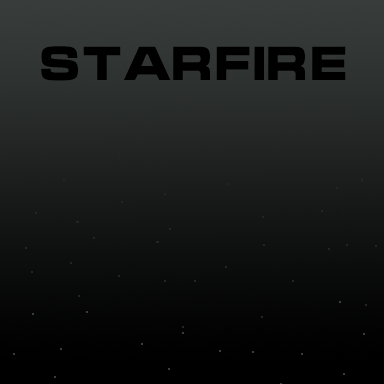
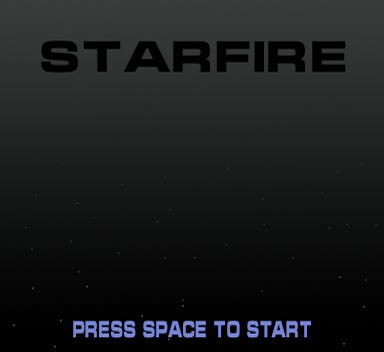
Implemented Movement + small misc changes

diff --git a/src/com/nak/starfire/input/Keyboard.java b/src/com/nak/starfire/input/Keyboard.java
@@ -6,75 +6,24 @@ import java.awt.event.KeyListener;
 public class Keyboard implements KeyListener {
 
 	private boolean[] keys = new boolean[120];
-	public static boolean up, down, left, right;
-	private static boolean pressed;
+	public static boolean up, down, left, right, space;
 
 	public void update() {
 		up = keys[KeyEvent.VK_UP] || keys[KeyEvent.VK_W];
 		down = keys[KeyEvent.VK_DOWN] || keys[KeyEvent.VK_S];
 		left = keys[KeyEvent.VK_LEFT] || keys[KeyEvent.VK_A];
 		right = keys[KeyEvent.VK_RIGHT] || keys[KeyEvent.VK_D];
+		space = keys[KeyEvent.VK_SPACE];
 	}
 
 	public void keyPressed(KeyEvent e) {
-		pressed = true;
 		keys[e.getKeyCode()] = true;
 	}
 
 	public void keyReleased(KeyEvent e) {
-		pressed = false;
 		keys[e.getKeyCode()] = false;
 	}
 
 	public void keyTyped(KeyEvent e) {
 	}
-
-	public boolean[] getKeys() {
-		return keys;
-	}
-
-	public void setKeys(boolean[] keys) {
-		this.keys = keys;
-	}
-
-	public static boolean isUp() {
-		return up;
-	}
-
-	public static void setUp(boolean up) {
-		Keyboard.up = up;
-	}
-
-	public static boolean isDown() {
-		return down;
-	}
-
-	public static void setDown(boolean down) {
-		Keyboard.down = down;
-	}
-
-	public static boolean isLeft() {
-		return left;
-	}
-
-	public static void setLeft(boolean left) {
-		Keyboard.left = left;
-	}
-
-	public static boolean isRight() {
-		return right;
-	}
-
-	public static void setRight(boolean right) {
-		Keyboard.right = right;
-	}
-
-	public static boolean isPressed() {
-		return pressed;
-	}
-
-	public static void setPressed(boolean pressed) {
-		Keyboard.pressed = pressed;
-	}
-
 }

diff --git a/src/com/nak/starfire/gamestate/LevelState.java b/src/com/nak/starfire/gamestate/LevelState.java
@@ -1,28 +1,41 @@
-package com.nak.starfire.level;
+package com.nak.starfire.gamestate;
 
 import java.awt.Graphics;
 
+import com.nak.starfire.Game;
+import com.nak.starfire.entity.Player;
+import com.nak.starfire.input.Keyboard;
 import com.nak.starfire.tile.Tile;
 import com.nak.starfire.utilities.Utilities;
 
 public class LevelState {
 
+	private Player player;
 	private int width, height;
 	private int[][] tiles;
+	private int dX, dY;
+	private int xVel = 2;
+	private int yVel = 2;
 
 	public LevelState(String path) {
+		player = new Player((Game.WIDTH * Game.SCALE / 2) - 12, (Game.HEIGHT * Game.SCALE / 2) - 24);
 		loadLevel(path);
 	}
 
 	public void update() {
+		if(Keyboard.left) dX -= xVel;
+		if(Keyboard.right) dX += xVel;
+		if(Keyboard.up) dY -= yVel;
+		if(Keyboard.down) dY += yVel;
 	}
 
 	public void render(Graphics g) {
 		for (int y = 0; y < height; y++) {
 			for (int x = 0; x < width; x++) {
-				getTile(x, y).render(g, (x * Tile.TILEWIDTH), (y * Tile.TILEHEIGHT));
+				getTile(x, y).render(g, (x * Tile.TILEWIDTH) - dX, (y * Tile.TILEHEIGHT) - dY);
 			}
 		}
+		player.render(g);
 	}
 
 	public Tile getTile(int x, int y) {

diff --git a/src/com/nak/starfire/gamestate/GameStateManager.java b/src/com/nak/starfire/gamestate/GameStateManager.java
@@ -2,12 +2,7 @@ package com.nak.starfire.gamestate;
 
 import java.awt.Graphics;
 
-import com.nak.starfire.level.LevelState;
-
 public class GameStateManager {
-
-	public static final int MENUSTATE = 0;
-	public static final int LEVEL1STATE = 1;
 
 	public static GameState gameState = GameState.MENUSTATE;
 	public static MenuState menuState;
@@ -20,6 +15,7 @@ public class GameStateManager {
 				menuState = new MenuState("/mainmenu.png");
 			}
 			menuState.update();
+			menuState.input();
 			break;
 		case LEVELSTATE:
 			if (levelState == null) {

diff --git a/src/com/nak/starfire/gamestate/MenuState.java b/src/com/nak/starfire/gamestate/MenuState.java
@@ -19,12 +19,12 @@ public class MenuState {
 	}
 
 	public void update() {
-		if (Keyboard.down) {
-			GameStateManager.gameState = GameState.LEVELSTATE;
-		}
+
 	}
 
 	public void input() {
-
+		if (Keyboard.space) {
+			GameStateManager.gameState = GameState.LEVELSTATE;
+		}
 	}
 }

diff --git a/src/com/nak/starfire/utilities/Time.java b/src/com/nak/starfire/utilities/Time.java
@@ -1,4 +1,4 @@
-package com.nak.starfire;
+package com.nak.starfire.utilities;
 
 public class Time {
 
